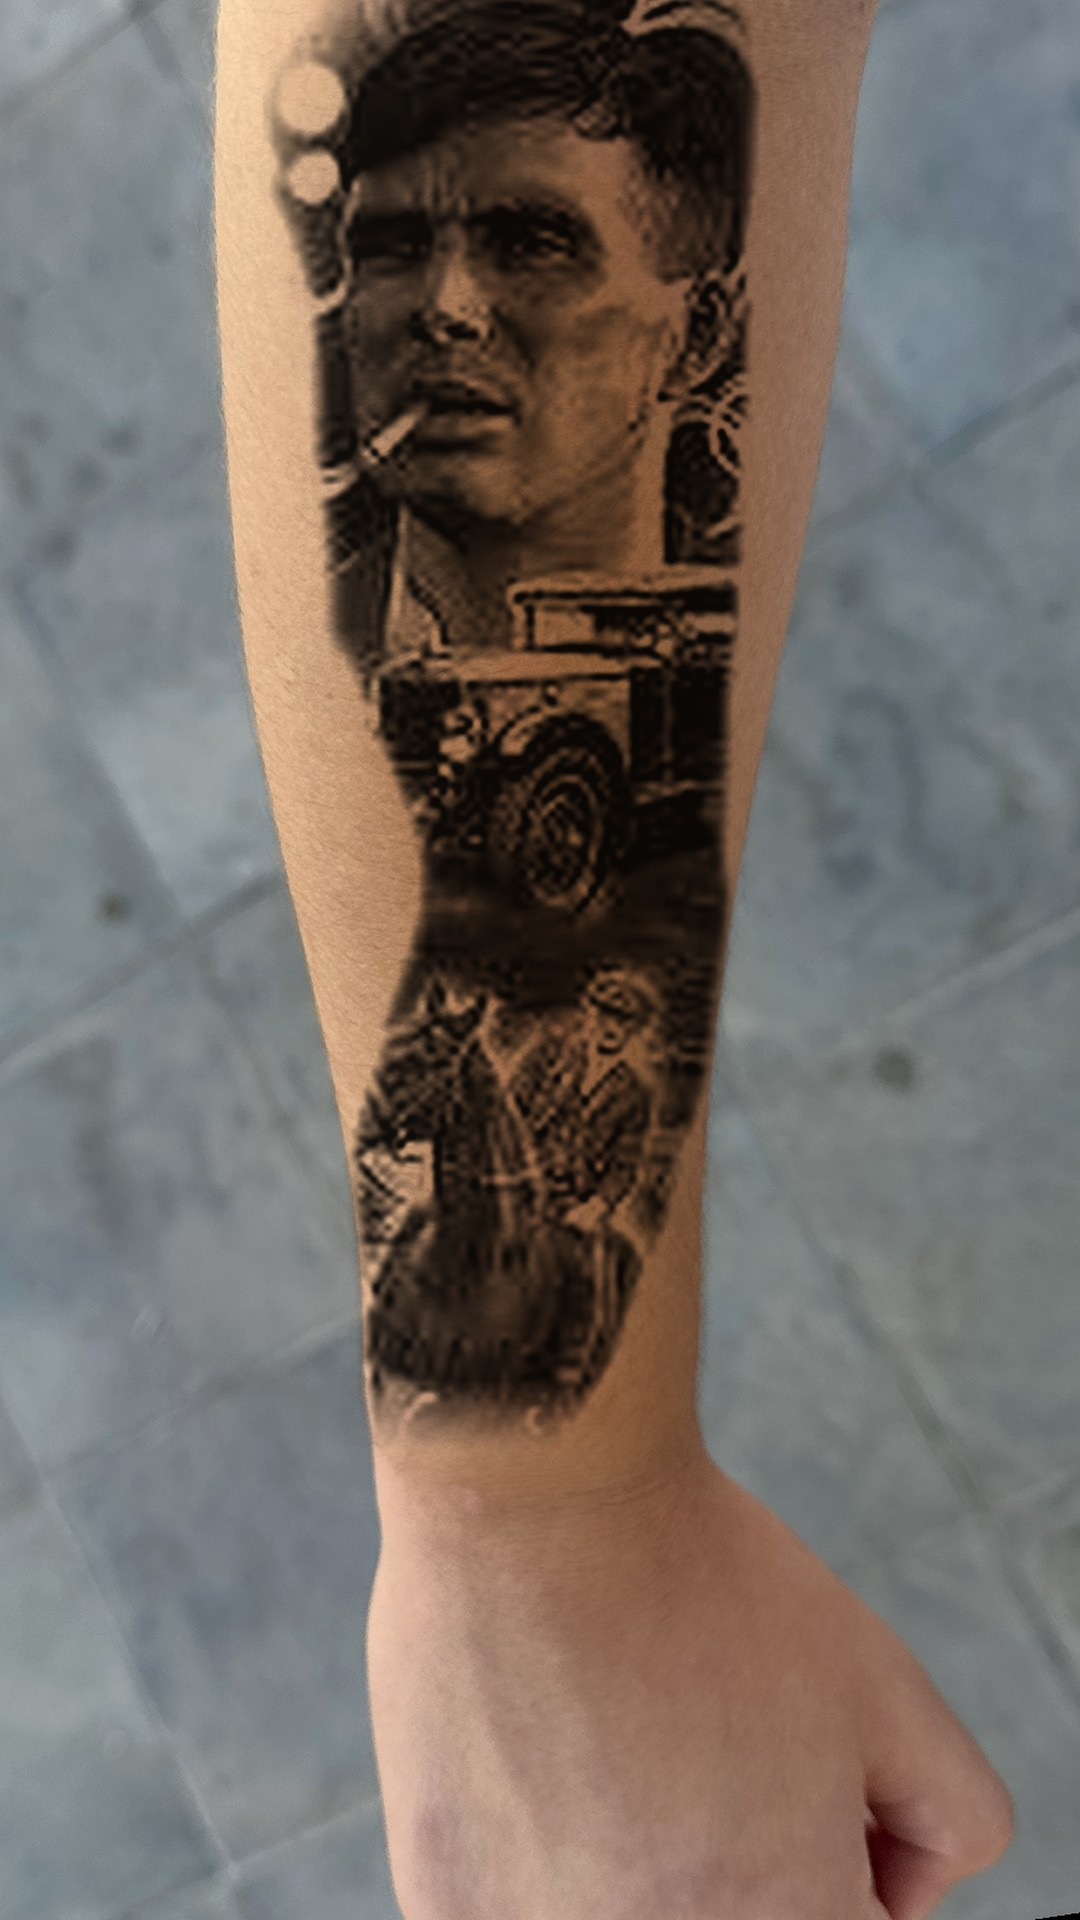
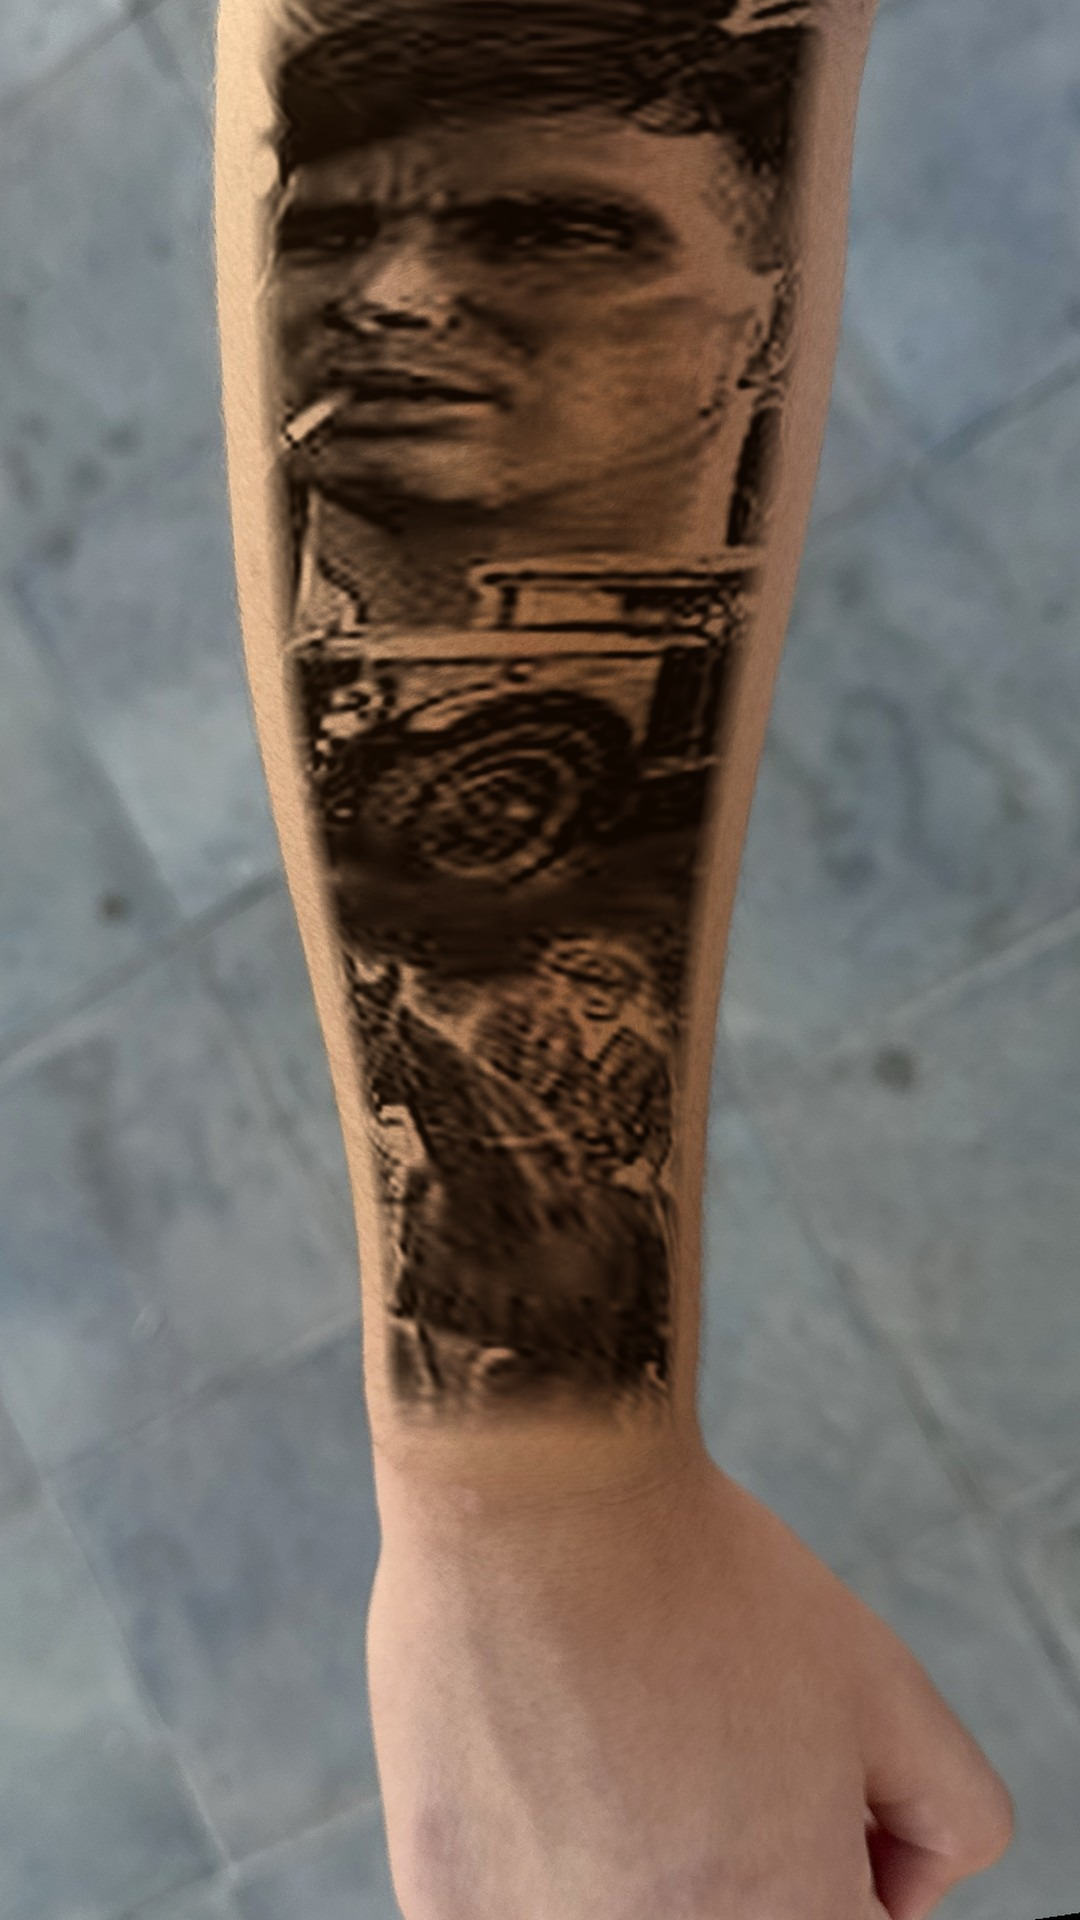
Wrap sleeve around the arm with cylinder mapping
Claude-Session: https://claude.ai/code/session_01R9KFd5zT5ikk9FDWWNw8K5

Changed region(s): [[0.2139, 0.0, 0.7639, 0.75]]

diff --git a/marketing/build/manga.py b/marketing/build/manga.py
@@ -1,0 +1,51 @@
+# Coloca un tatuaje de manga (imagen de referencia) envolviendo el antebrazo de la foto: marketing/assets/brazo-manga.jpg
+import sys, numpy as np
+from PIL import Image, ImageFilter, ImageChops
+ref_path = sys.argv[1]
+base = Image.open("marketing/assets/brazo-giro.jpg").convert("RGB")
+Wf, Hf = base.size
+ref = Image.open(ref_path).convert("L").crop((106, 0, 189, 222))
+a = np.clip((np.asarray(ref).astype(float) - 25) / 200, 0, 1) ** 1.15
+s = 6.8
+P = Image.fromarray((a * 255).astype("uint8")).resize((int(ref.width * s), int(ref.height * s)), Image.LANCZOS).filter(ImageFilter.UnsharpMask(radius=4, percent=90, threshold=2))
+P = np.asarray(P).astype(float)
+Hp, Wp = P.shape
+# bordes de la manga en la referencia, fila a fila (columnas con tinta)
+ink = np.asarray(Image.fromarray(P.astype("uint8")).filter(ImageFilter.GaussianBlur(10))) < 235
+def edges(mask):
+    L = np.zeros(mask.shape[0]); R = np.zeros(mask.shape[0])
+    for y in range(mask.shape[0]):
+        xs = np.flatnonzero(mask[y])
+        L[y], R[y] = (xs[0], xs[-1]) if len(xs) > 20 else (np.nan, np.nan)
+    return L, R
+def fill(v):
+    idx = np.arange(len(v)); ok = ~np.isnan(v)
+    v = np.interp(idx, idx[ok], v[ok])
+    k = np.ones(61) / 61
+    return np.convolve(np.pad(v, 30, mode="edge"), k, mode="valid")
+pl, pr = [fill(e) for e in edges(ink)]
+# bordes del brazo en la foto
+hsv = np.asarray(base.convert("HSV")).astype(int)
+skin = (hsv[..., 0] >= 4) & (hsv[..., 0] <= 30) & (hsv[..., 1] > 70) & (hsv[..., 2] > 90)
+skin = np.asarray(Image.fromarray(skin.astype("uint8") * 255).filter(ImageFilter.MinFilter(9)).filter(ImageFilter.MaxFilter(9))) > 128
+YB = 1440                               # la muñeca: ahí termina la manga
+al, ar = edges(skin[:YB])
+al, ar = fill(al), fill(ar)
+out = np.full((Hf, Wf), 255.0)
+inset = 0.05
+for y in range(YB):
+    L, R = al[y] + (ar[y] - al[y]) * inset, ar[y] - (ar[y] - al[y]) * inset
+    xs = np.arange(int(L), int(R) + 1)
+    u = np.clip((xs - L) / max(R - L, 1), 0, 1)
+    t = 0.5 + np.arcsin(2 * u - 1) / np.pi            # envuelve el cilindro del brazo
+    r = (y + 20) / (YB + 20) * (Hp - 1)               # la referencia se estira de codo a muñeca
+    c = pl[int(r)] + t * (pr[int(r)] - pl[int(r)])
+    r0 = int(r); c0 = np.clip(c.astype(int), 0, Wp - 2); fx = c - c0
+    row = P[r0, c0] * (1 - fx) + P[r0, c0 + 1] * fx
+    edge = np.minimum(1, np.minimum(u, 1 - u) / 0.06)  # borde suave
+    fade = np.clip((YB - y) / 70, 0, 1)
+    out[y, xs] = 255 - (255 - row) * edge * fade
+lum = Image.fromarray(out.astype("uint8")).filter(ImageFilter.GaussianBlur(0.9))
+rgb = Image.merge("RGB", (lum.point(lambda v: 255 - (255 - v) * 0.88), lum.point(lambda v: 255 - (255 - v) * 0.92), lum.point(lambda v: 255 - (255 - v) * 0.97)))
+ImageChops.multiply(base, rgb).save("marketing/assets/brazo-manga.jpg", quality=92)
+Image.open("marketing/assets/brazo-manga.jpg").resize((270, 480)).save("/tmp/manga_s.png")
